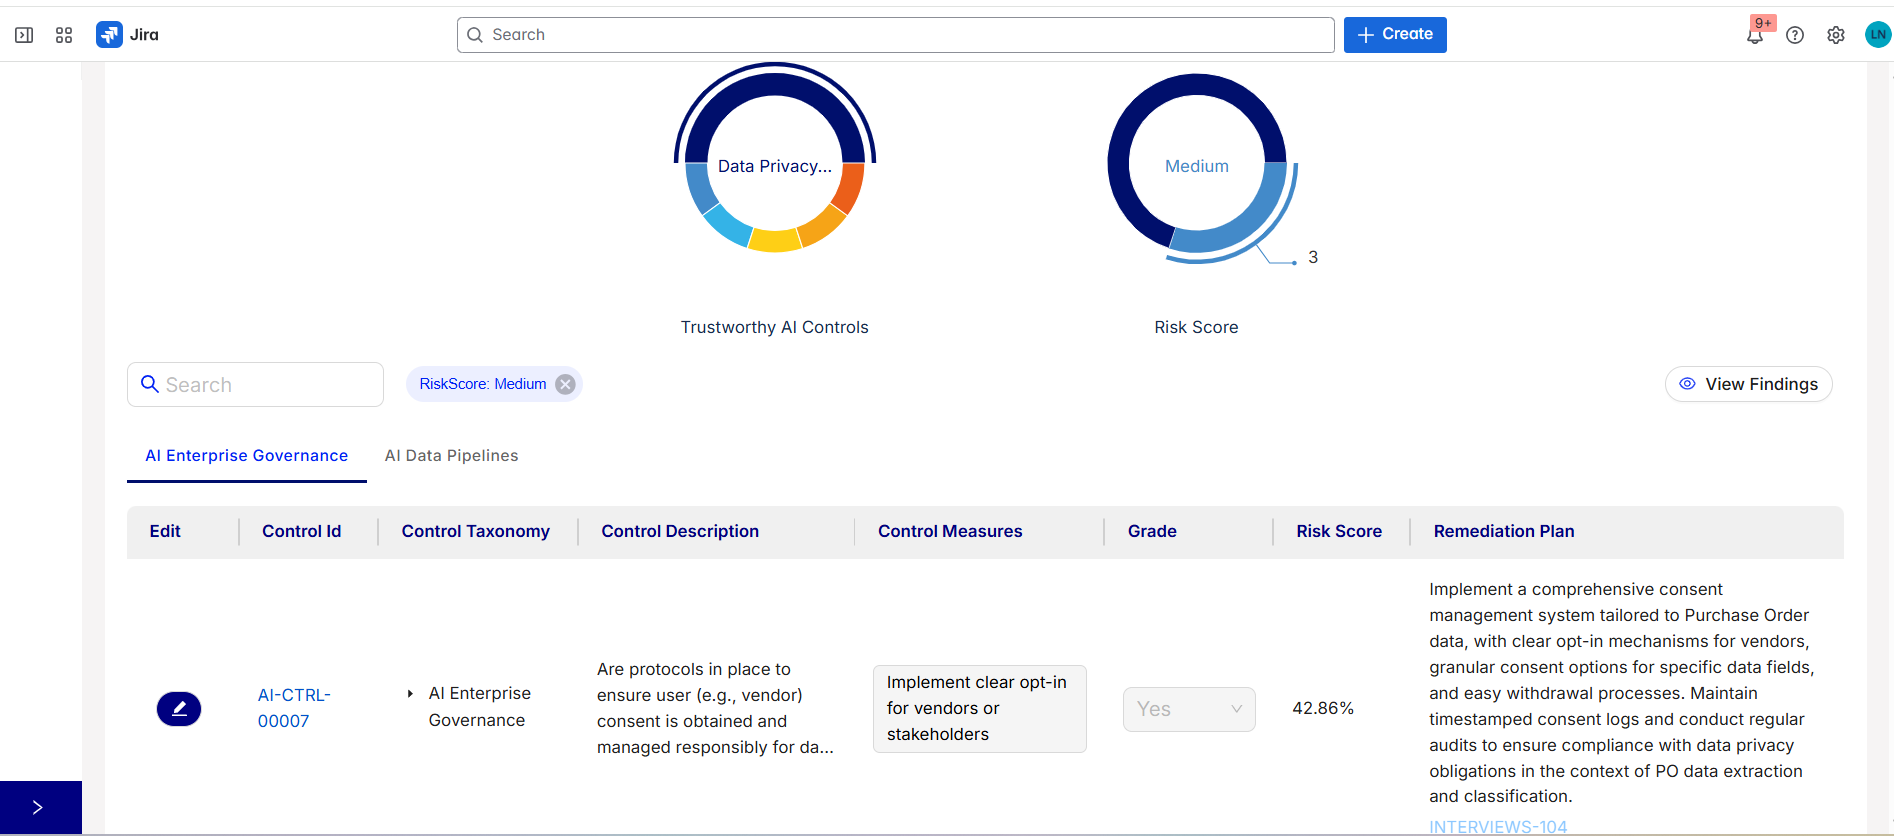
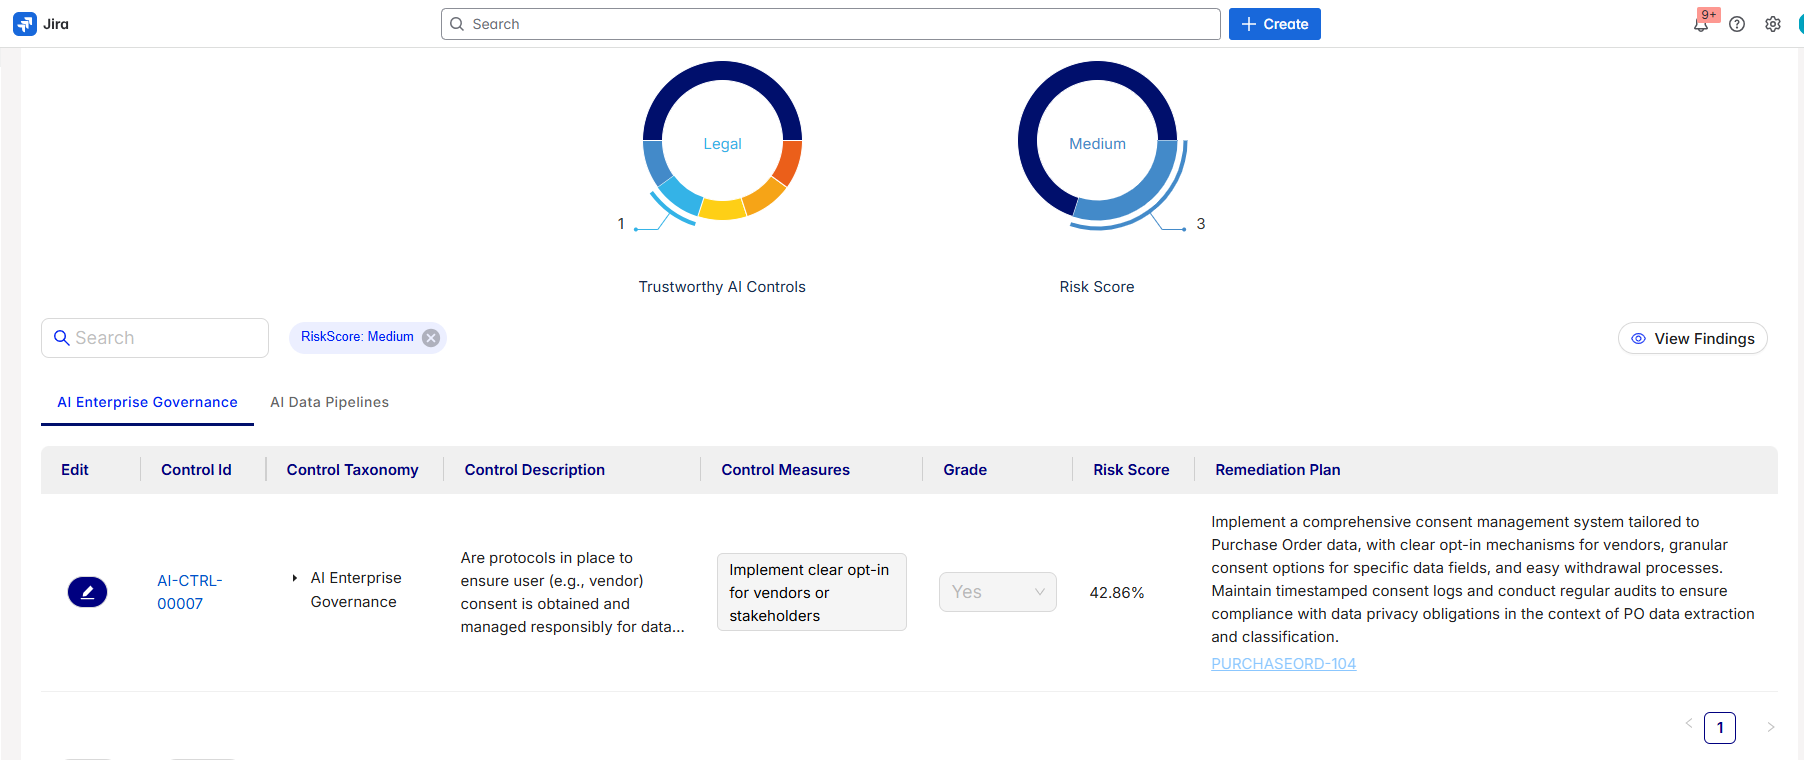
risk changes

diff --git a/slide4.html b/slide4.html
@@ -340,7 +340,7 @@ It detects performance drops, data drift, and library vulnerabilities to ensure 
             <h4 class="future-card-title" style="font-size: small;" data-explanation="Next-Gen Space Telescopes">Risk Assessment</h4>
             <div class="explanation-popup">
                 <ul>
-                    <p>The images show the Risk Assessment dashboard for the "Interview Scheduler Agent AI" in Jira. Initially, the evaluation is incomplete with pending inputs for control measures. In the updated view, controls are graded, risk scores are calculated, and remediation plans are added—reducing the overall risk score from 10 to 7.</p>
+                    <p>Medium risk identified for vendor consent under AI Governance. Remediation: implement a PO agent-based consent system with clear opt-ins, granular controls, and audit-ready logs.</p>
                 </ul>
             </div>
           </div>
